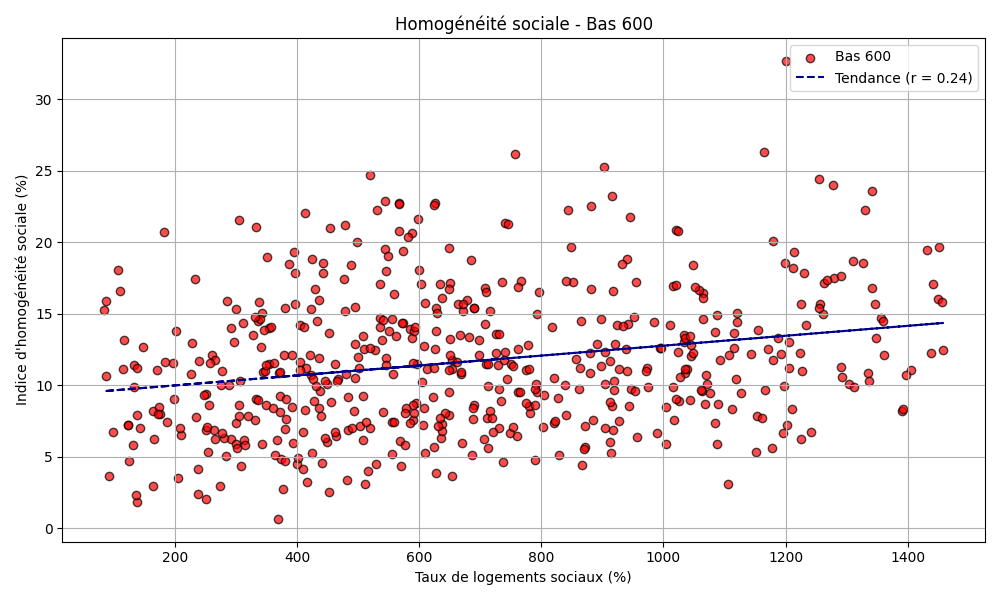
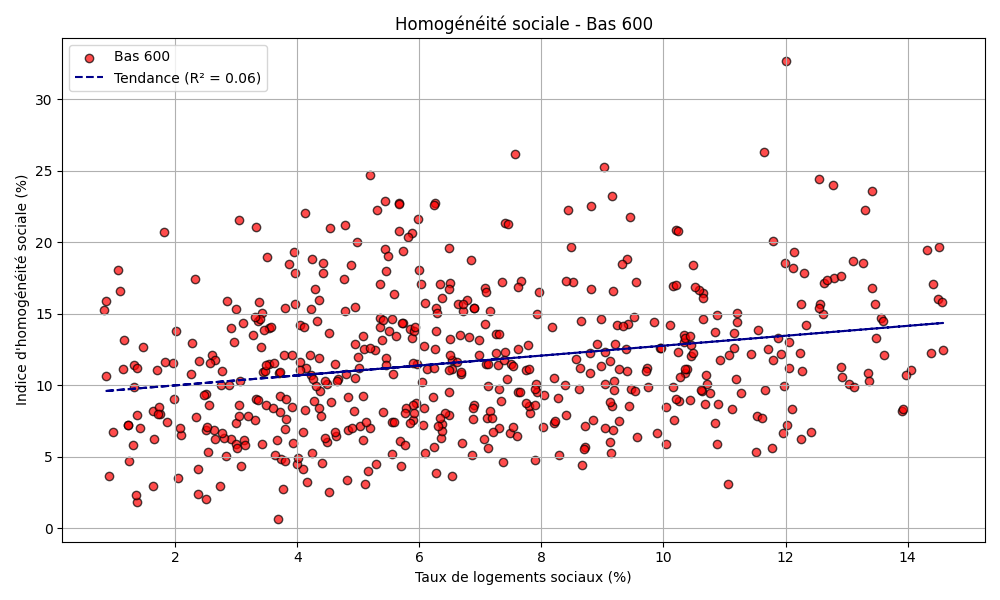
update graphiques

diff --git a/do/main_code.py b/do/main_code.py
@@ -3,6 +3,7 @@ import os
 import pandas as pd
 import numpy as np
 import matplotlib.pyplot as plt
+from sklearn.metrics import r2_score
 
 print("hello")
 
@@ -52,16 +53,17 @@ logements_sociaux_taux_df["AAV2020"] = logements_sociaux_taux_df["AAV2020"].asty
 df_result = moyennes.merge(logements_sociaux_taux_df[["AAV2020", "PCT_SOCIAUX"]], on="AAV2020", how="left")
 df_plot = df_result.dropna(subset=["Indice_Homogeneite", "PCT_SOCIAUX"])
 
-# Fonction générique pour afficher et sauvegarder un graphique
+# Fonction générique pour afficher et sauvegarder un graphique avec R²
 def tracer_graphique(df, label, couleur, nom_fichier):
-    x = df["PCT_SOCIAUX"] * 100
+    x = df["PCT_SOCIAUX"]
     y = df["Indice_Homogeneite"]
     plt.figure(figsize=(10, 6))
     plt.scatter(x, y, alpha=0.7, edgecolors='k', color=couleur, label=label)
     if len(df) > 1:
         m, b = np.polyfit(x, y, 1)
-        r = np.corrcoef(x, y)[0, 1]
-        plt.plot(x, m * x + b, color='darkblue', linestyle='--', label=f'Tendance (r = {r:.2f})')
+        y_pred = m * x + b
+        r2 = r2_score(y, y_pred)
+        plt.plot(x, y_pred, color='darkblue', linestyle='--', label=f'Tendance (R² = {r2:.2f})')
     plt.title(f"Homogénéité sociale - {label}")
     plt.xlabel("Taux de logements sociaux (%)")
     plt.ylabel("Indice d'homogénéité sociale (%)")
@@ -118,14 +120,15 @@ def tracer_graphique_filtré(df_base, col, taux_df, titres, output_path):
     y_max = df[col].quantile(0.99)
     x_max = df["PCT_SOCIAUX"].quantile(0.99)
     df_filt = df[(df[col] < y_max) & (df["PCT_SOCIAUX"] < x_max)]
-    x = df_filt["PCT_SOCIAUX"] * 100
+    x = df_filt["PCT_SOCIAUX"]
     y = df_filt[col]
     plt.figure(figsize=(10, 6))
     plt.scatter(x, y, alpha=0.7, edgecolors='k', label=titres[col])
     if len(x) > 1:
         m, b = np.polyfit(x, y, 1)
-        r = np.corrcoef(x, y)[0, 1]
-        plt.plot(x, m * x + b, color='red', label=f'Tendance (r = {r:.2f})')
+        y_pred = m * x + b
+        r2 = r2_score(y, y_pred)
+        plt.plot(x, y_pred, color='red', label=f'Tendance (R² = {r2:.2f})')
     plt.title(f"{titres[col]} selon le taux de logements sociaux")
     plt.xlabel("Taux de logements sociaux (%)")
     plt.ylabel(titres[col])
@@ -139,4 +142,3 @@ def tracer_graphique_filtré(df_base, col, taux_df, titres, output_path):
 
 for col in ["CS2", "CS3", "CS5", "CS6", "CS2_CS3", "CS5_CS6"]:
     tracer_graphique_filtré(population_metier_df, col, logements_sociaux_taux_df, titres, output_path)
-
